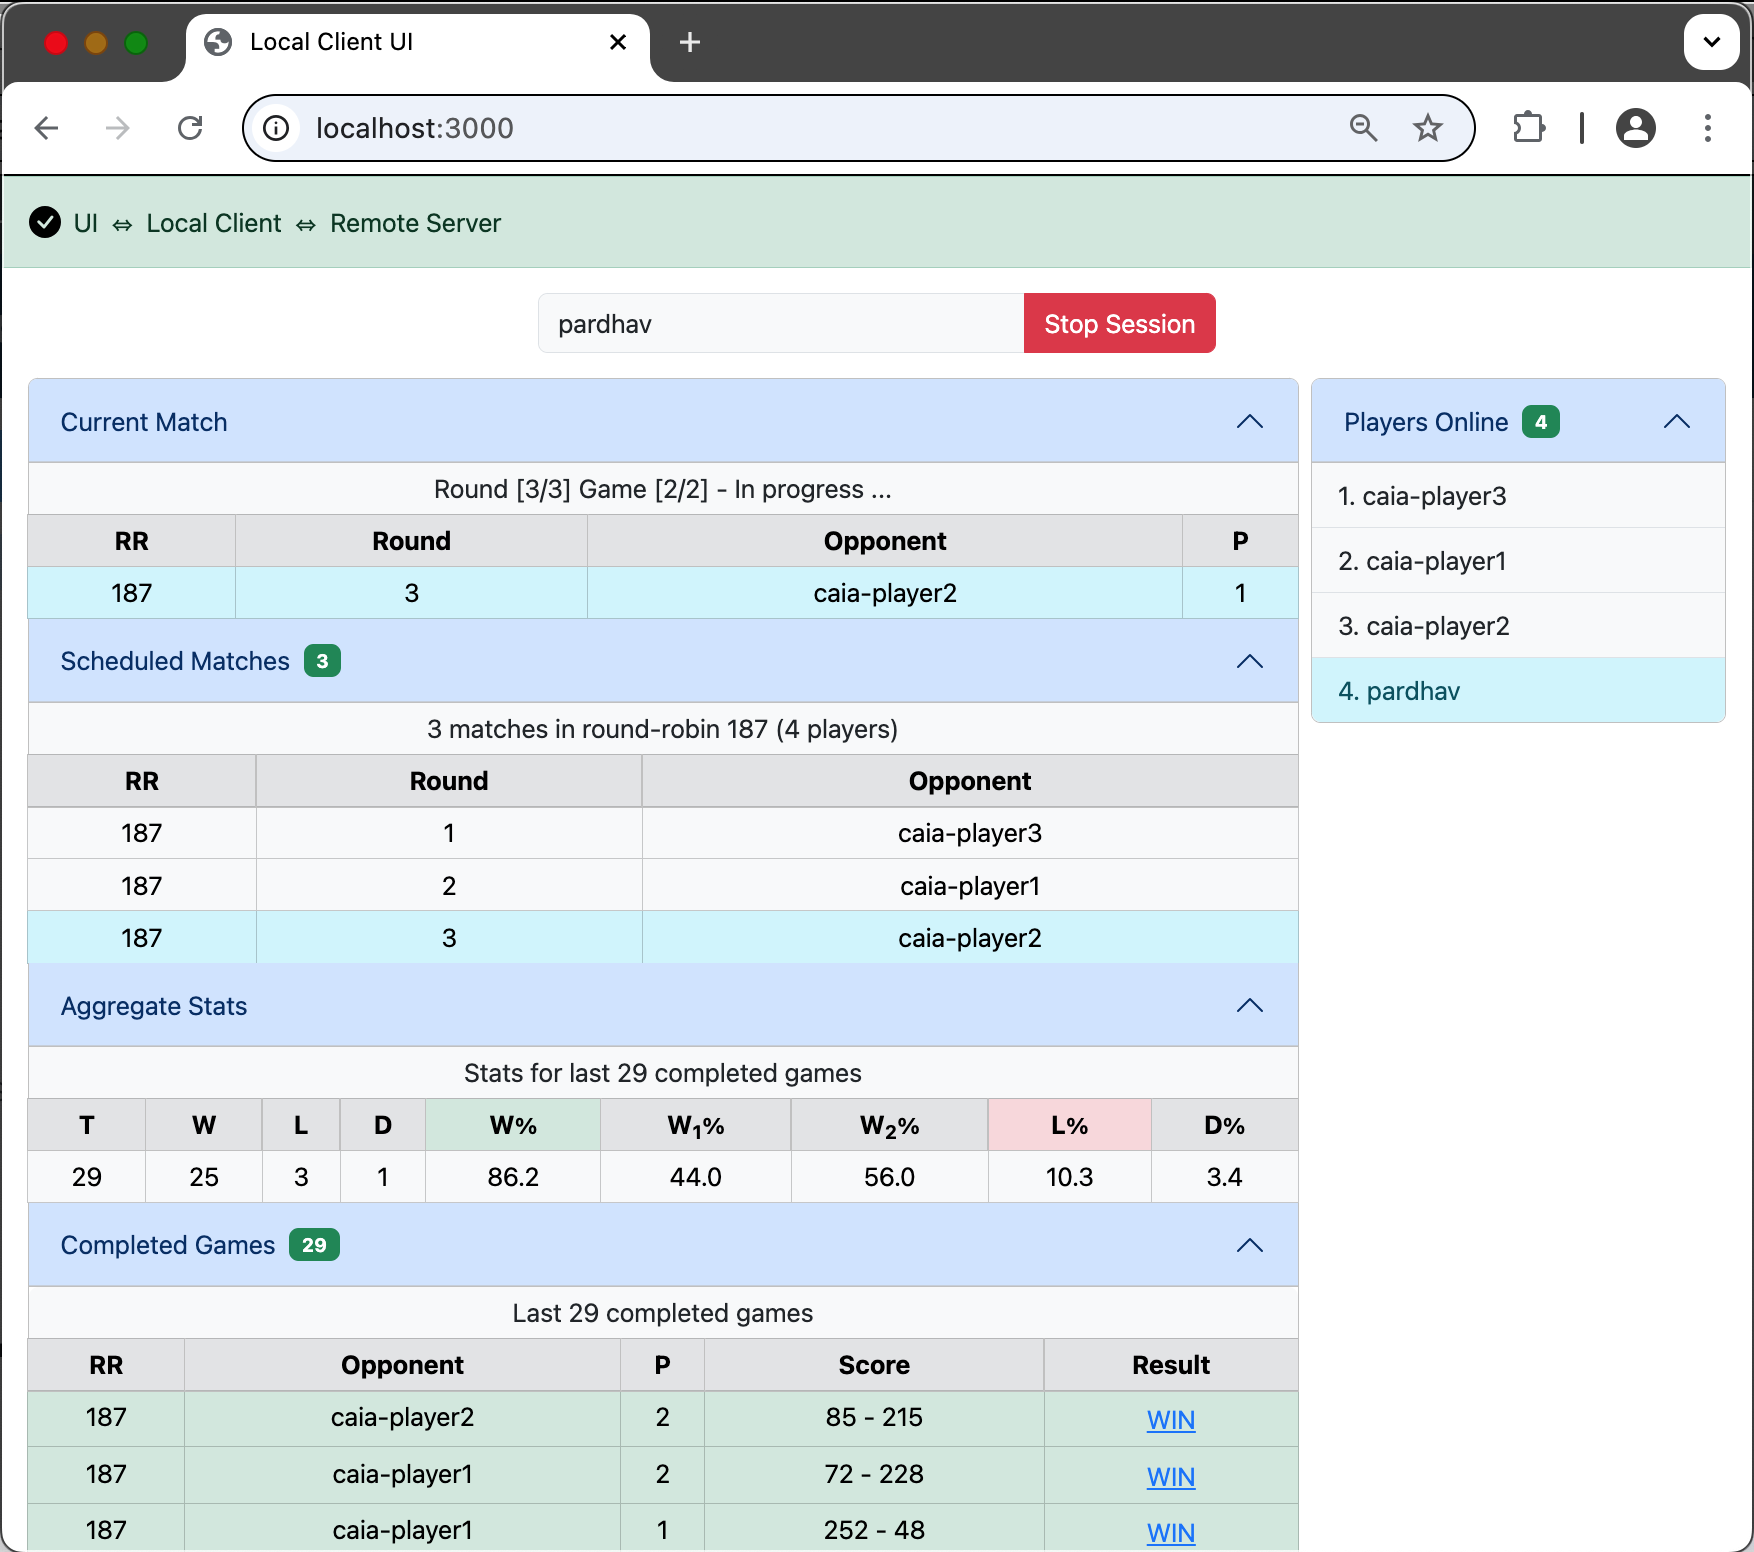
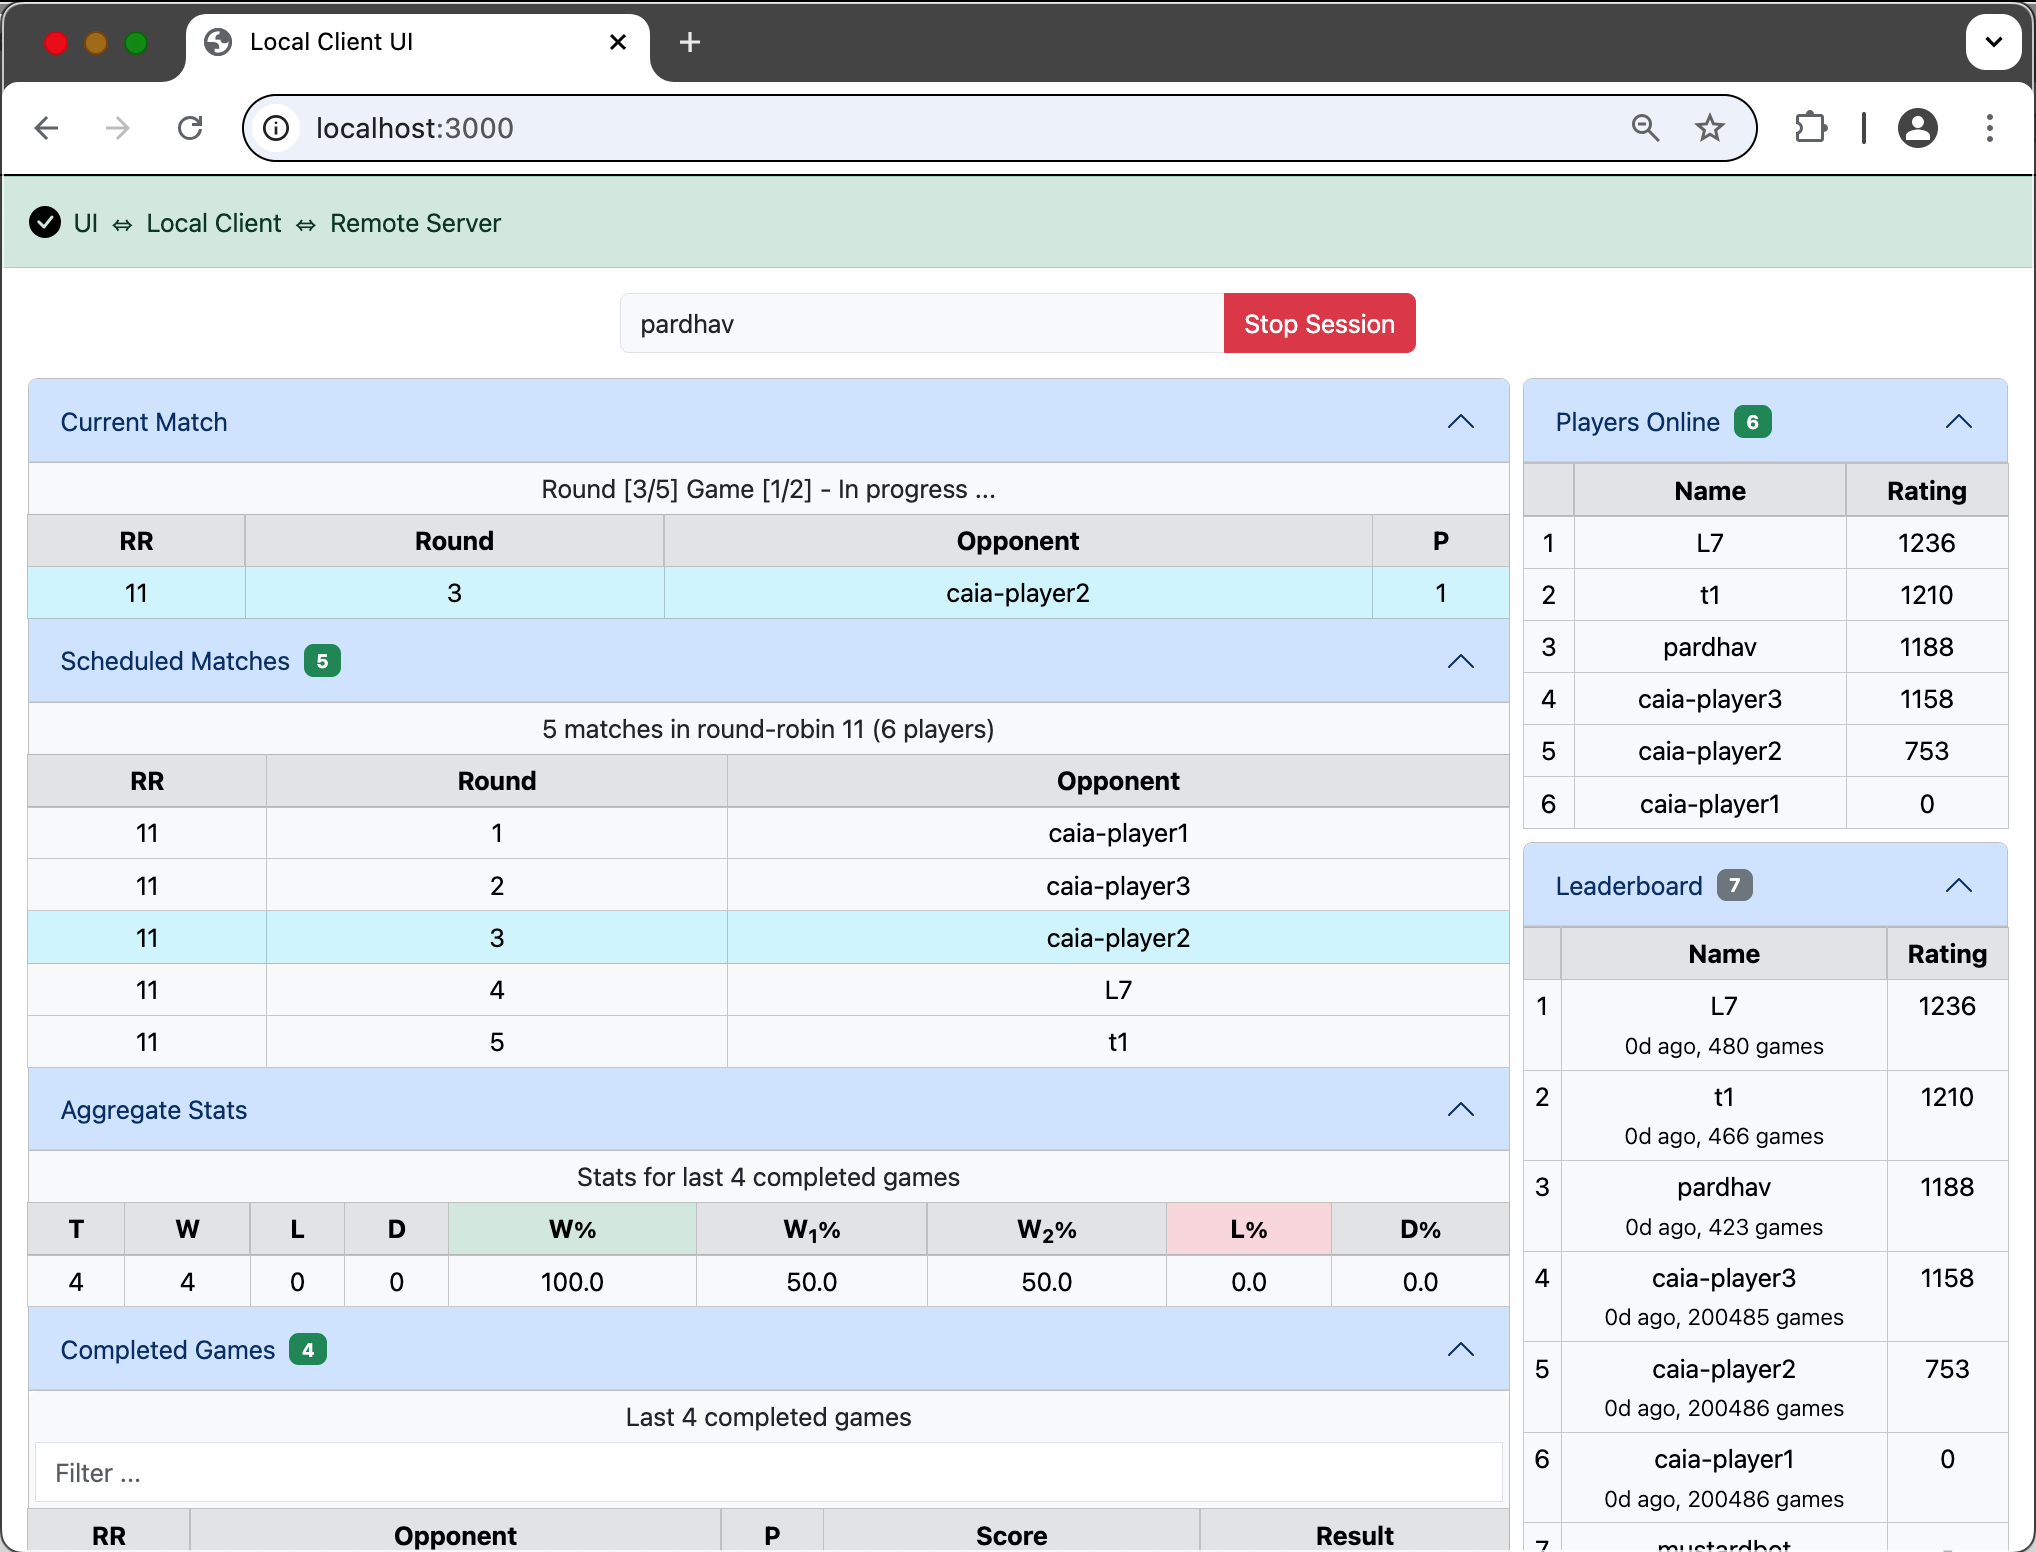
- Update README files

diff --git a/client/index.js b/client/index.js
@@ -13,7 +13,7 @@ const params = {};
 
 function showUsageAndExit(retVal) {
     const usage =
-      "Usage: npm start -- -s <server_url> -p <program> [-n <player_name>] [-t <server_timeout>] [-u <ui_port>] [-x] [-f] [-a] [-v] [-h]\n" +
+      "Usage: npm start -- -s <server_url> -p <program> [-n <player_name>] [-e <passphrase>] [-t <server_timeout>] [-u <ui_port>] [-x] [-f] [-a] [-v] [-h]\n" +
       "Options:\n" +
       "  Required:\n" +
       "    -s|--serverURL     : server URL (required)\n" +
@@ -160,6 +160,8 @@ try {
     params.passphrase = values["passphrase"];
     if (params.passphrase != null) {
         params.passphrase = crypto.createHash("sha256").update(params.passphrase).digest("hex");
+    } else {
+        console.error("Warning: No passphrase provided - player name may be used by others too, see -h for help");
     }
     const serverTimeout = Number(values["serverTimeout"]);
     if (isNaN(serverTimeout) || serverTimeout < 0) {

diff --git a/README.md b/README.md
@@ -2,7 +2,7 @@
 
 An unofficial online multiplayer version of [CodeCup 2025](https://www.codecup.nl/intro.php) contest game [Box](https://www.codecup.nl/rules.php).
 
-The purpose of this is to allow contestants to have their programs play against other programs **online** while they build and improve their programs for the test and final competitions of CodeCup 2025.  Contestants don't have to share their source code or the program binaries - their programs runs locally on their own systems and **only** the game moves are transmitted over to the other players - everything else like the completed game HTML's and logs generated are all local to the contestant.
+The purpose of this is to allow contestants to have their programs play against other programs **online** while they build and improve their programs for the test and final competitions of CodeCup 2025.  Contestants don't have to share their source code or the program binaries - their programs runs locally on their own systems and **only** the game moves are transmitted over to the other players - everything else like the completed game HTML's and logs generated are all local to the contestant.  A performance rating for each of the player is also assigned to help players gauge the competitiveness of their bots with respect to others.
 
 The Box Online Multiplayer version has two components.  A **server** component that is hosted on a publicly accessible server and a **client** component that contestants run locally on their systems which invokes their program to play the Box games.  This repo has sources for both the components, but contestants only need the **client** component to participate.
 
@@ -12,6 +12,7 @@ The Box Online Multiplayer version has two components.  A **server** component t
 - [Hosted Server](#hosted-server)
 - [Client Component](#client-component)
 - [Server Component](#server-component)
+- [Performance Ratings](#performance-ratings)
 
 ## Getting Started
 
@@ -44,7 +45,11 @@ You should see somthing like this in the browser while the games are in progress
 
 ## Game Results and Logs
 
-You can click on the **Result** link in the games under the `Completed Games` section to see a familiar [`caia`](https://www.codecup.nl/download_caia.php) generated game HTML output as follows:
+You can look under the `Completed Games` section to see the results of the recently completed games.  A free text filter can be used to filter the results as shown here:
+
+![Filter Completed Games](images/completed-games-filter.png)
+
+You can click on the **Result** link of each game to see a familiar [`caia`](https://www.codecup.nl/download_caia.php) generated game HTML output as follows:
 
 ![Sample game result](images/sample-game-result.png)
 
@@ -87,4 +92,8 @@ All the details about the **client** component can be found in the [Client](clie
 ## Server Component
 
 All the details about the **server** component can be found in the [Server](server/README.md) page.
+
+## Performance Ratings
+
+Details about how the performance ratings are calculated and the simulation code can be found in the [perf-rating](server/perf-rating/) directory.  The JavaScript implementation of the same can be found in the Server [code](server/index.js#L177).
 

diff --git a/client/README.md b/client/README.md
@@ -5,13 +5,14 @@ All the source code for the **client** component resides in this folder.
 Here are all the command line options available to run the client:
 
 ```
-Usage: npm start -- -s <server_url> -p <program> [-n <player_name>] [-t <server_timeout>] [-u <ui_port>] [-x] [-f] [-a] [-v] [-h]
+Usage: npm start -- -s <server_url> -p <program> [-n <player_name>] [-e <passphrase>] [-t <server_timeout>] [-u <ui_port>] [-x] [-f] [-a] [-v] [-h]
 Options:
   Required:
     -s|--serverURL     : server URL (required)
     -p|--program       : program to run (required)
   Optional:
     -n|--playerName    : player name (default: program name)
+    -e|--passphrase    : register player name for exclusive use (default: none)
     -t|--serverTimeout : timeout in seconds for server socket (default: 5 seconds)
     -u|--uiPort        : port number to listen for UI (default: 3000)
     -m|--maxGamesInUI  : max completed games to list in UI (default: 512)
@@ -30,6 +31,7 @@ Most of the options should be self explanatory.  Here are some more details abou
 - The box program passed via the `-p|--program` option needs to be a single executable file
   - Programs written in some languages might need to be packaged within an executable script
 - The `-n|--playerName` option allows you to specify a virtual player name (validation is done for duplicates at runtime)
+- The `-e|--passphrase` option allows you to register your player name for exclusive use.  No other player will be able to use this name without the passphrase.  A `sha256` hash of this is sent over to the server and stored there and validated every time during session start.  **It is strongly recommended to use this option to prevent your player name takeover by others, which can impact the bot rating**
 - The `-u|--uiPort` option allows you to specify a custom port for the local client UI
 - The `-m|--maxGamesInUI` option allows you to specify the maximum number of games that get listed in the UI.  Note that all games are still available via the `All games` link in the UI
 - The `-x|--noUI` option disables listening on the UI port.  This could be useful if you cannot listen on a port or don't need the UI controls
